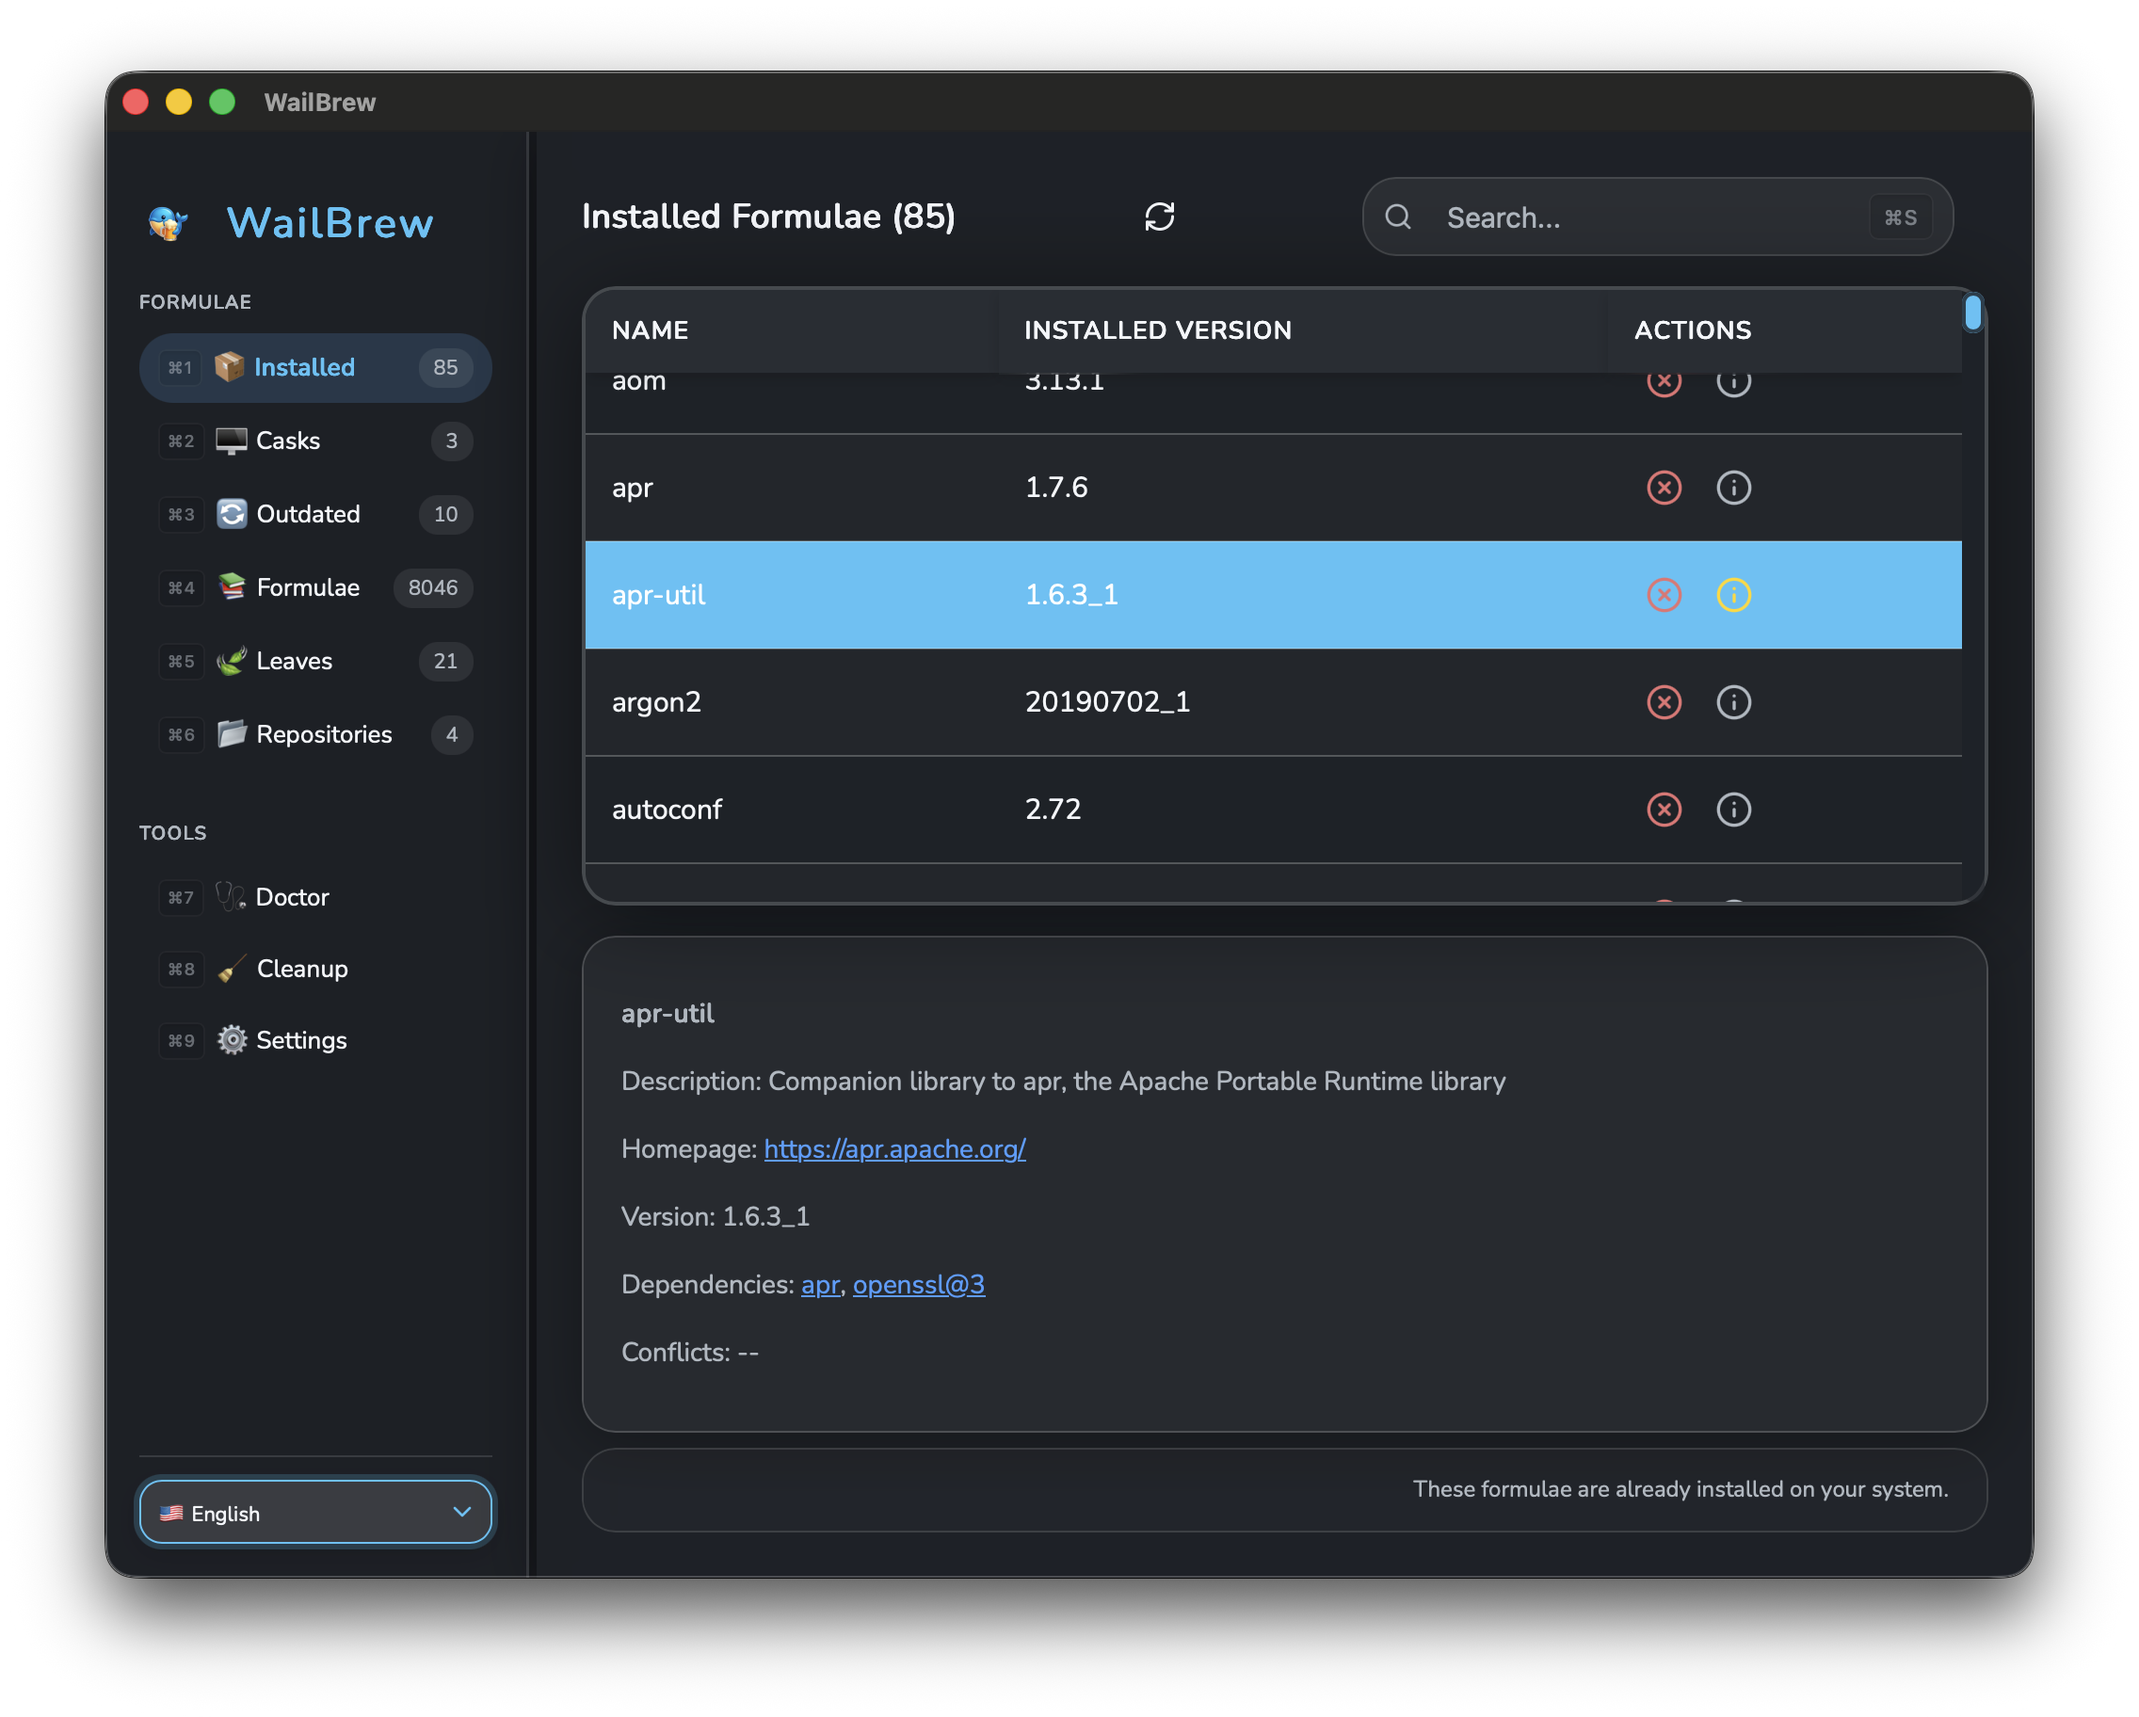
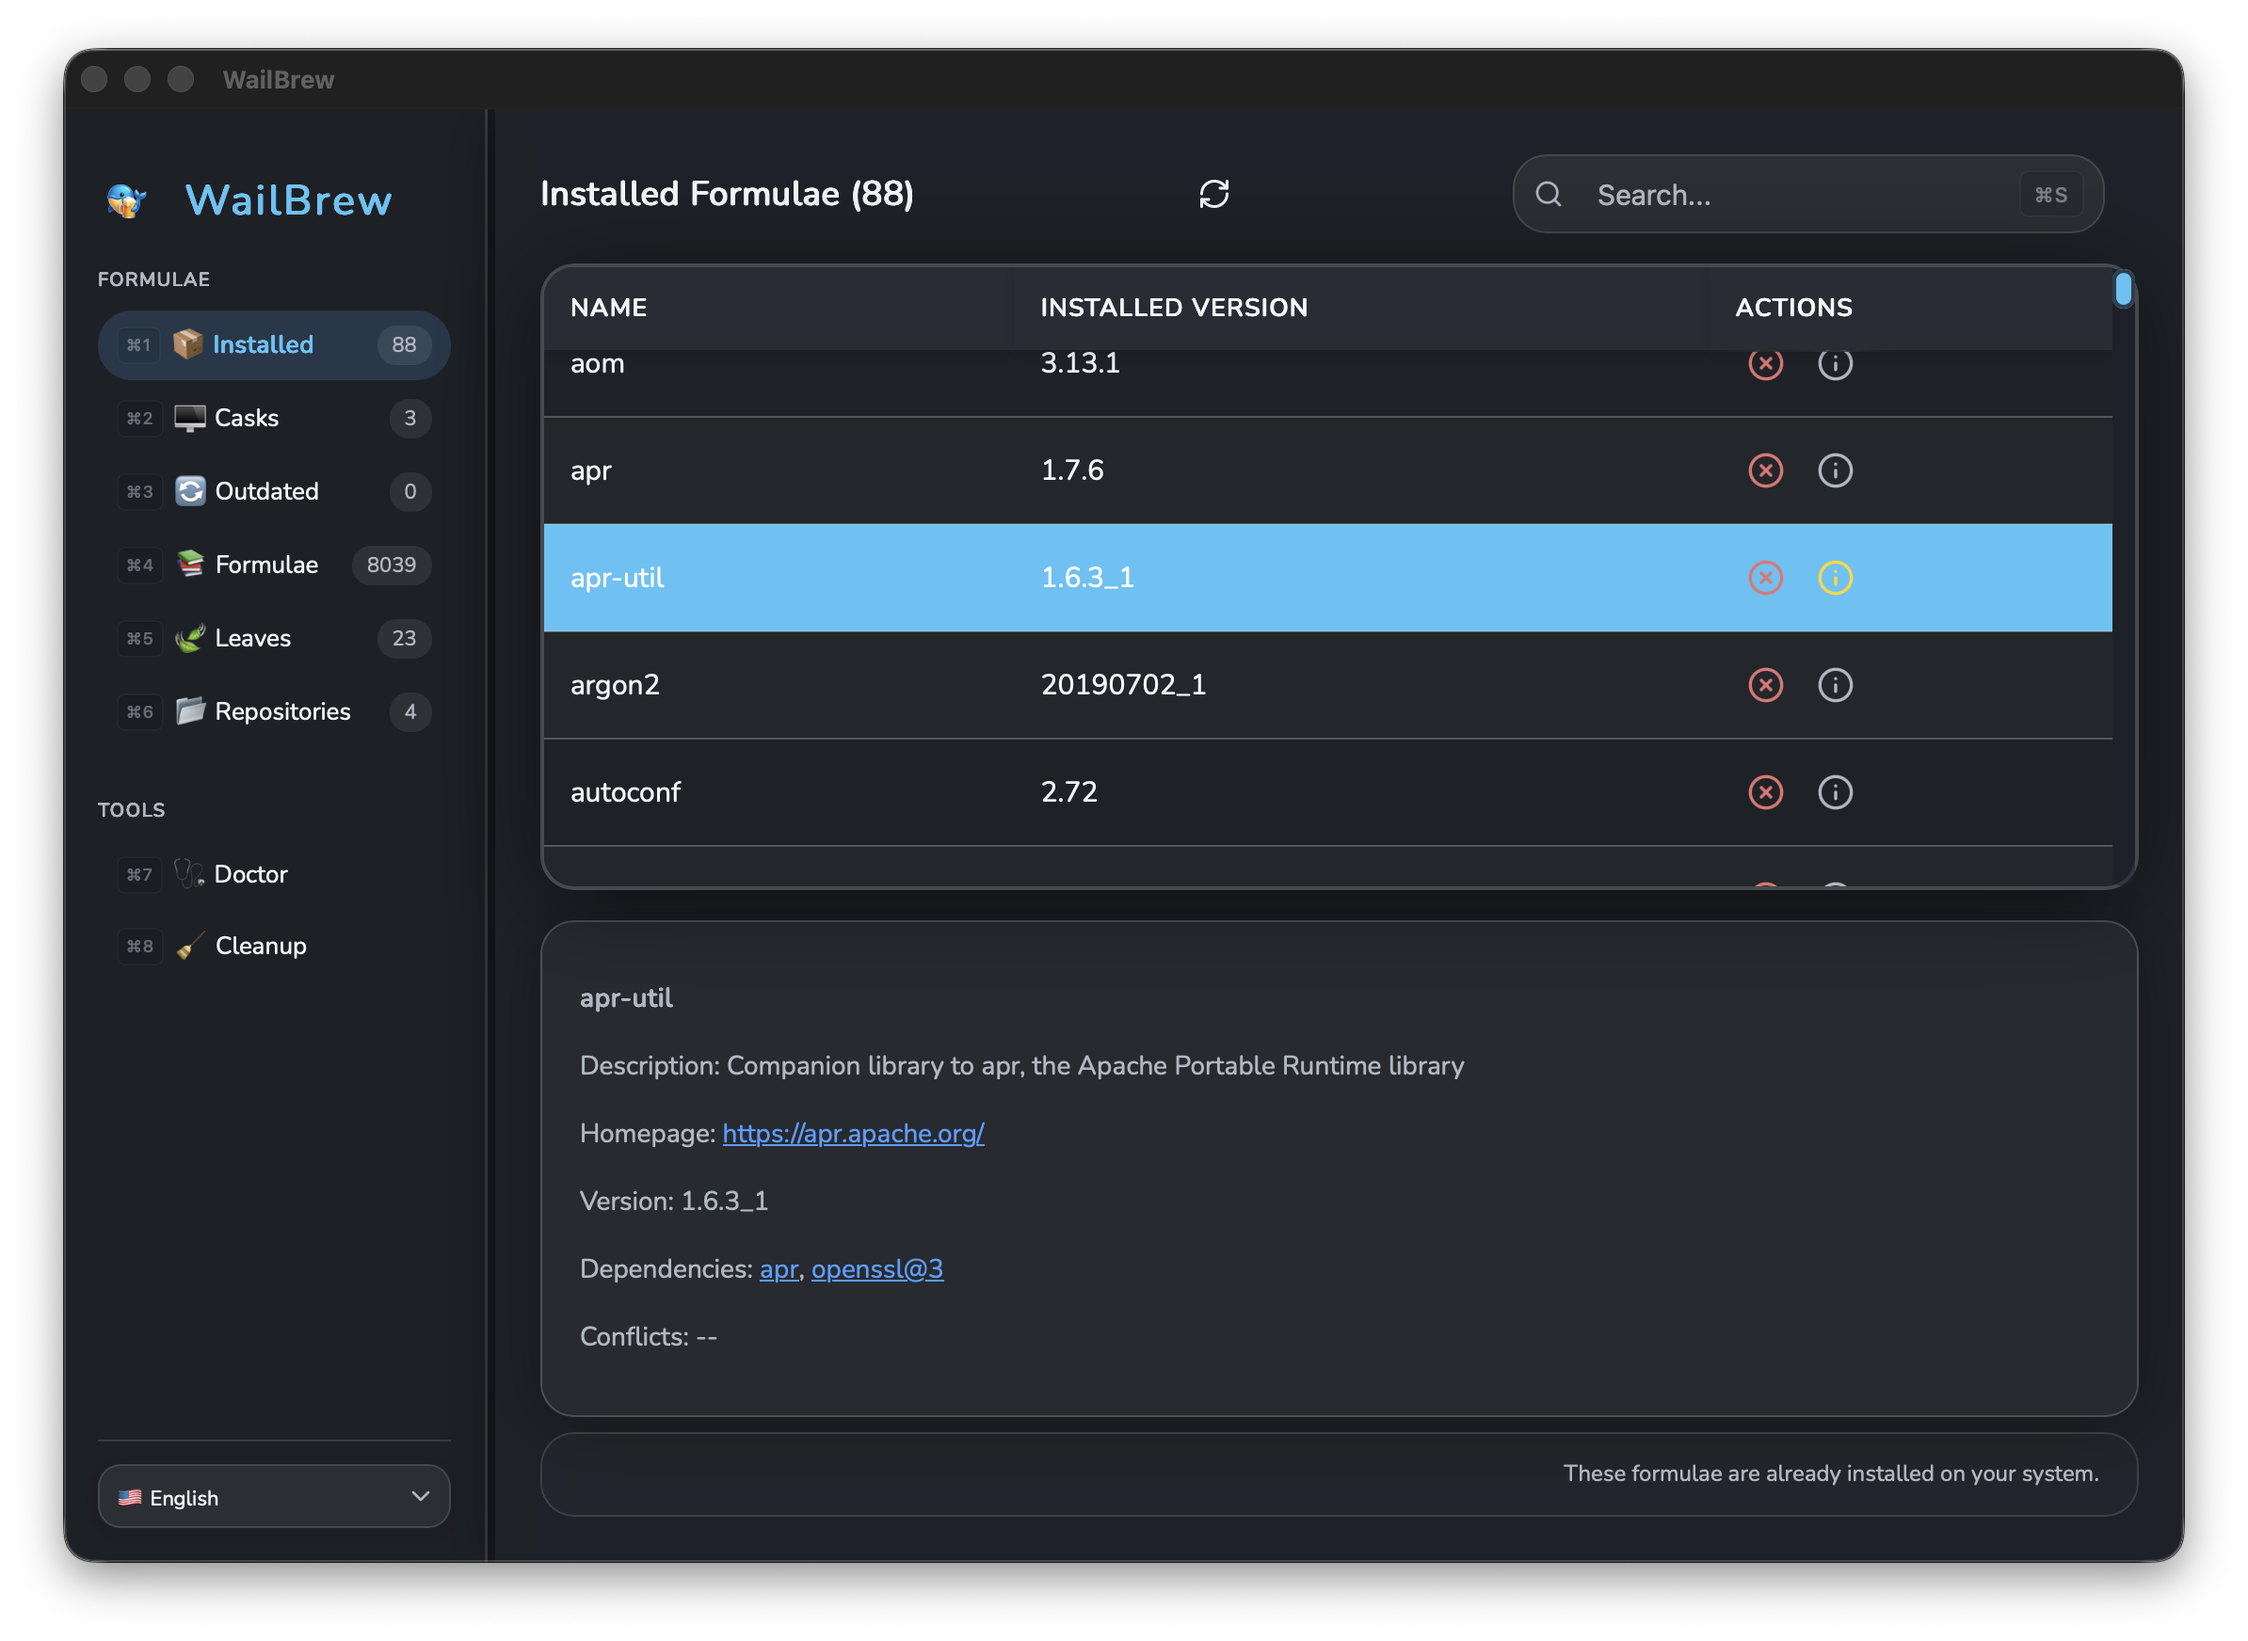
Document beta phase macOS version support in README.md

diff --git a/README.md b/README.md
@@ -29,6 +29,15 @@ brew install --cask wailbrew
 
 **[Download Latest Version](https://github.com/wickenico/WailBrew/releases/latest)** 
 
+## 🧪 Version Support in Beta Phase
+
+WailBrew aims to support following macos versions:
+
+- Apple Silicon ARM: macOS 11.0 (Big Sur) and later.
+- Intel: macOS 10.14 (Mojave) and later.
+
+While the app is primarily tested on the latest macOS versions, we strive to maintain compatibility with older supported versions. If you encounter any issues on your macOS version, please let us know by [opening an issue](https://github.com/yourusername/WailBrew/issues) or providing feedback.
+
 ## 📸 Screenshots
 
 ![WailBrew Screenshot](images/Screenshot.png)
